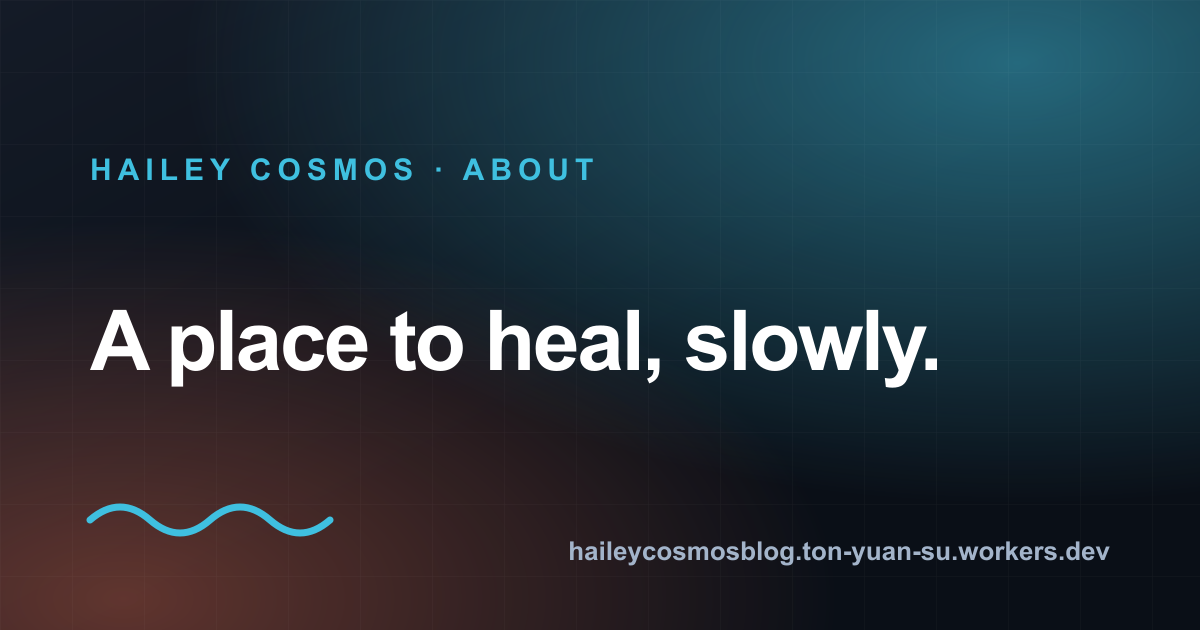
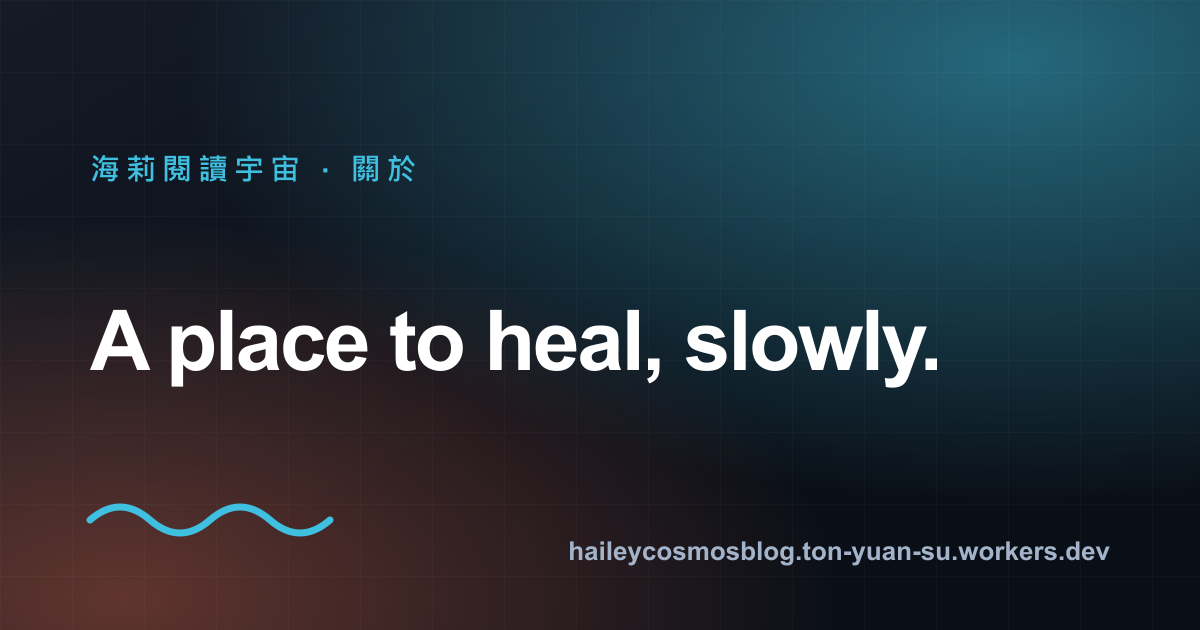
feat: 網站名稱改為海莉閱讀宇宙並優化 SEO

Changed region(s): [[0.0617, 0.2413, 0.3392, 0.3016], [0.37, 0.2413, 0.4933, 0.3016]]

diff --git a/src/i18n/ui/zh/pages.ts b/src/i18n/ui/zh/pages.ts
@@ -12,12 +12,14 @@
 export const zhPages = {
   // --- Accueil -------------------------------------------------------------
   home: {
-    metaTitle: "Hailey Cosmos，迴圈外的海莉",
+    // Contient le nom du site (siteData.name) : BaseHead n'ajoute donc pas
+    // le suffixe " | nom", le titre reste tel quel dans les resultats.
+    metaTitle: "海莉閱讀宇宙 Hailey Cosmos｜閱讀筆記與生活隨想",
     metaDescription:
       "一個離開日復一日的迴圈後，重新尋找生命意義的地方。閱讀、思考、書寫，記錄我一步步療癒自己、找回生活重量的過程。",
     eyebrow: "Hailey Cosmos",
     /** "\n" force un retour a la ligne dans le titre du hero (Hero.astro le rend en <br>). */
-    heroTitle: "Outside the Loop\n迴圈外的海莉",
+    heroTitle: "Outside the Loop\n海莉閱讀宇宙",
     heroAccent: "Loop",
     heroLede: "寫給自己，寫給被困在生活迴圈裡的靈魂們。閱讀、思考、書寫，記錄我一步步療癒自己、找回生活重量的過程。",
     heroPrimary: "開始閱讀",
@@ -50,9 +52,9 @@ export const zhPages = {
     metaTitle: "關於這裡",
     metaDescription: "一個在迴圈之外，練習慢慢療癒自己、寫下生活與思考的地方。",
     eyebrow: "關於",
-    title: "一個練習慢慢療癒自己的人",
-    accent: "慢慢療癒",
-    lede: "我是海莉，我曾活在日復一日的迴圈裡，說不出哪裡不對勁，卻感覺不到一絲意義。這裡記下我一路尋找答案、慢慢把自己接回來的過程，現在也仍在路上，如果你也在同樣的路上，希望我們能在這裡相遇。",
+    title: "你好，我是迴圈外的海莉",
+    accent: "迴圈外的海莉",
+    lede: "我曾活在日復一日的迴圈裡，說不出哪裡不對勁，卻感覺不到一絲意義。這裡記下我一路尋找答案、慢慢把自己接回來的過程，現在也仍在路上，如果你也在同樣的路上，希望我們能在這裡相遇。",
     storyTitle: "這個空間是怎麼開始的",
     storyAccent: "開始的",
     storyParagraphs: [
@@ -104,7 +106,7 @@ export const zhPages = {
     error: "傳送失敗。請直接寄信給我們，我們會在那邊收到。",
     directTitle: "或是跳過表單",
     directLede: "直接寄一封普通的電子郵件效果一樣好，而且一串信件串比表單更容易追蹤。",
-    directCta: "寄信給工作室",
+    directCta: "寄信給我",
     nextTitle: "接下來會發生什麼",
     nextSteps: [
       "兩個工作天內，我們其中一人會先簡短回覆。",
@@ -118,7 +120,7 @@ export const zhPages = {
     metaTitle: "主題",
     metaDescription: "Hailey Cosmos 涵蓋的所有主題：閱讀、思考、書寫，以及在生活裡慢慢尋找意義的各種面向。",
     eyebrow: "主題",
-    title: "我們持續書寫的五個主題",
+    title: "我持續書寫的主題",
     accent: "主題",
     lede: "每篇文章只歸屬一個主題。挑一條主線讀完整段，如果想照順序理解脈絡，從最舊的開始讀。",
     /** {count} vient du nombre d'articles publies dans le sujet. */

diff --git a/src/pages/llms.txt.ts b/src/pages/llms.txt.ts
@@ -15,25 +15,33 @@ export const GET: APIRoute = async ({ site, url }) => {
   const base = site ?? url;
   const absolute = (path: string): string => new URL(path, base).href;
 
+  // Ce site n'a qu'une langue : la phrase "published in N languages" du theme
+  // d'origine ne garde son sens que s'il en a plusieurs.
+  const languages =
+    locales.length === 1
+      ? `This site is written in ${localeMeta[locales[0]].label} (Traditional Chinese).`
+      : `This site is published in ${locales.length} languages: ` +
+        locales
+          .map((locale) => `${localeMeta[locale].label} (${absolute(localizePath("/", locale))})`)
+          .join(", ") +
+        ". Every page listed below exists in each of them.";
+
   const lines = [
-    `# ${siteData.name}`,
+    `# ${siteData.name} (${siteData.alternateName})`,
     "",
     `> ${siteData.description}`,
     "",
-    `This site is published in ${locales.length} languages: ` +
-      locales
-        .map((locale) => `${localeMeta[locale].label} (${absolute(localizePath("/", locale))})`)
-        .join(", ") +
-      ". Every page listed below exists in each of them.",
+    languages,
     "",
   ];
 
+  // Seulement les pages que ce site construit vraiment : pas de page auteurs,
+  // un lien mort ici enverrait un agent sur une 404.
   const core: [string, string][] = [
-    ["/", "the editorial home: featured post, latest notes, topics and writers"],
+    ["/", "the home page: the featured post, the latest notes and the topics"],
     ["/blog/", "every published post, newest first, paginated nine to a page"],
     ["/topics/", "the topic index; each topic has its own paginated archive"],
-    ["/authors/", "the people who write here, one page per byline"],
-    ["/about/", "how the studio works and why the notes are published"],
+    ["/about/", "who writes here (Hailey) and why this blog exists"],
   ];
 
   for (const locale of locales) {

diff --git a/src/i18n/ui/zh/reading.ts b/src/i18n/ui/zh/reading.ts
@@ -49,8 +49,8 @@ export const zhReading = {
     metaTitle: "所有文章",
     metaDescription: "Hailey Cosmos 發表過的所有文章，由新到舊：閱讀筆記、生活思考，以及一步步找回生命意義的紀錄。",
     eyebrow: "文章庫",
-    title: "我們寫過的所有東西",
-    accent: "所有東西",
+    title: "記錄所有寫的文章",
+    accent: "文章",
     lede: "完整的文章庫，由新到舊排列。當你還不確定要找什麼的時候，滑三十秒比打字搜尋更快。",
     /** Suffixe de titre des pages 2 et suivantes. */
     pageSuffix: "第 {n} 頁",
@@ -72,13 +72,13 @@ export const zhReading = {
   // /api/subscribe (worker/index.js) vers Buttondown ; les messages de resultat
   // sont affiches par src/components/Sections/Global/_newsletter.ts.
   newsletter: {
-    title: "一個月一封信",
-    accent: "一個月",
-    lede: "簡短整理我們發表過的內容，還有我們搞砸的地方。沒有追蹤像素，沒有連續信件轟炸，一鍵就能永久退訂。",
+    title: "雙週一封信",
+    accent: "雙週",
+    lede: "簡短整理近期發表內容。沒有連續信件轟炸，訂閱後隨時可退訂。",
     emailLabel: "你的電子郵件",
     placeholder: "you@example.com",
     submit: "訂閱",
-    note: "一個月一封信。隨時可以取消訂閱。",
+    note: "每雙週一封信。隨時可以取消訂閱。",
     /** Texte du bouton pendant l'envoi. */
     sending: "送出中…",
     success: "快完成了。請點擊我們剛剛寄出的確認信。",

diff --git a/src/js/schema.ts b/src/js/schema.ts
@@ -21,6 +21,8 @@ function isoDate(value: Date | string): string {
 
 export interface OrganizationInput {
   name: string;
+  /** Autre nom sous lequel le site est connu (ex. son nom latin). */
+  alternateName?: string;
   url: string;
   logo?: string;
   sameAs?: string[];
@@ -32,6 +34,7 @@ export function organization(input: OrganizationInput): JsonLdNode {
     "@context": CONTEXT,
     "@type": "Organization",
     name: input.name,
+    alternateName: input.alternateName,
     url: input.url,
     logo: input.logo,
     sameAs: input.sameAs,
@@ -40,6 +43,8 @@ export function organization(input: OrganizationInput): JsonLdNode {
 
 export interface WebsiteInput {
   name: string;
+  /** Autre nom du site : Google le lit pour choisir le nom affiche dans les resultats. */
+  alternateName?: string;
   url: string;
   description?: string;
 }
@@ -50,6 +55,7 @@ export function website(input: WebsiteInput): JsonLdNode {
     "@context": CONTEXT,
     "@type": "WebSite",
     name: input.name,
+    alternateName: input.alternateName,
     url: input.url,
     description: input.description,
   });

diff --git a/src/config/siteData.json.ts b/src/config/siteData.json.ts
@@ -4,7 +4,12 @@ import type { SiteDataProps } from "./types/configDataTypes";
 // Tout ce qui identifie la publication vit ici. C'est le premier fichier que
 // l'utilisateur edite, et le seul a editer pour changer de marque.
 const siteData: SiteDataProps = {
-  name: "Hailey",
+  // name : le nom officiel, pour le referencement (titres "Page | name",
+  // og:site_name, donnees structurees). alternateName : le nom latin, affiche
+  // comme marque dans la barre et le pied de page, et declare aux moteurs comme
+  // autre nom du meme site.
+  name: "海莉閱讀宇宙",
+  alternateName: "Hailey Cosmos",
   description:
     "一個離開日復一日的迴圈後，重新尋找生命意義的地方。閱讀、思考、書寫，記錄我一步步療癒自己、找回生活重量的過程。",
   useViewTransitions: true,
@@ -24,7 +29,7 @@ const siteData: SiteDataProps = {
 
   defaultImage: {
     src: "/og/default.png",
-    alt: "Hailey Cosmos: Outside the loop, one page at a time.",
+    alt: "海莉閱讀宇宙 Hailey Cosmos: Outside the loop, one page at a time.",
   },
 };
 

diff --git a/src/i18n/ui/zh/chrome.ts b/src/i18n/ui/zh/chrome.ts
@@ -19,7 +19,7 @@ export const zhChrome = {
     contact: "聯絡",
     search: "搜尋",
     /** Libelle accessible du lien qui ramene le titre du blog a l'accueil. */
-    brandHome: "Hailey，回到首頁",
+    brandHome: "Hailey Cosmos，回到首頁",
     /** Les deux <nav> de la page portent un nom : sans lui, un lecteur d'ecran
      *  annonce "navigation" deux fois et ne dit pas laquelle des deux. */
     mainLabel: "主要導覽",
@@ -41,7 +41,7 @@ export const zhChrome = {
     sitemap: "網站地圖",
     backToTop: "回到頂端",
     /** Libelle accessible du lien qui ne porte qu'une icone. */
-    emailStudio: "寄信給工作室",
+    emailStudio: "寄信給我",
     followOn: "在 {network} 上追蹤 {name}",
   },
 

diff --git a/src/js/schema.selfcheck.ts b/src/js/schema.selfcheck.ts
@@ -50,6 +50,16 @@ is(
   },
   "website carries name, url and description",
 );
+is(
+  website({ name: "Example Studio", alternateName: "Exemple", url: "https://example.com/" }).alternateName,
+  "Exemple",
+  "website carries its alternate name",
+);
+is(
+  organization({ name: "Example Studio", alternateName: "Exemple", url: "https://example.com/" }).alternateName,
+  "Exemple",
+  "organization carries its alternate name",
+);
 
 // article : dates normalisees, noeuds imbriques sans @context.
 const post = article({

diff --git a/src/config/types/configDataTypes.ts b/src/config/types/configDataTypes.ts
@@ -1,7 +1,10 @@
 // src/config/types/configDataTypes.ts - types partages par tous les fichiers de config de src/config.
 
 export interface SiteDataProps {
+  /** Nom officiel du site : titres de page, og:site_name, donnees structurees. */
   name: string;
+  /** Autre nom du site : marque affichee dans la barre et le pied de page, et alternateName des donnees structurees. */
+  alternateName: string;
   description: string;
   useViewTransitions?: boolean;
   author: {

diff --git a/Release_Note.md b/Release_Note.md
@@ -28,6 +28,7 @@
 - **待完成**：Buttondown 帳號審核中，確認信暫停寄送，審核通過後再做完整實測
 - **照片全部進版控，不再依賴 Pexels**：建置時不再從 Pexels 下載照片，網站用到的照片都 commit 在 repo 裡；你自己的封面圖也會被 commit，修正了「有自己封面圖的文章會部署失敗」的問題
 - **About 頁隱藏手機截圖**：右欄留白，排版不變
+- **網站名稱與 SEO**：網站名稱改為「海莉閱讀宇宙」，英文別名「Hailey Cosmos」；導覽列與頁尾顯示「Hailey Cosmos」；首頁標題、結構化資料、`llms.txt`、分享卡片同步更新
 
 ---
 
@@ -106,6 +107,19 @@
 
 - `about.astro`：註解掉 `<PhoneShot />` 和它的 import，保留兩欄排版、右欄留白，分隔線長度不變
 - 元件、截圖檔 `public/reef-iphone-poster.webp`、`pnpm poster` 指令都保留；之後要恢復或刪除，記在交接文件的「未來優化構想」
+
+### 10. 網站名稱與 SEO
+
+| 項目 | 結果 |
+|---|---|
+| 網站名稱（`siteData.name`） | 「Hailey」改為「海莉閱讀宇宙」：用於每頁標題後綴（例如「所有文章 \| 海莉閱讀宇宙」）、`og:site_name`、結構化資料 |
+| 英文別名（新增 `siteData.alternateName`） | 「Hailey Cosmos」：導覽列、手機選單、頁尾的品牌文字；結構化資料的 `alternateName` |
+| 首頁標題 | 海莉閱讀宇宙 Hailey Cosmos｜閱讀筆記與生活隨想 |
+| 結構化資料 | `schema.ts` 的 WebSite、Organization 支援 `alternateName`，自我檢查補 2 項 |
+| `llms.txt` | 標題改為「海莉閱讀宇宙 (Hailey Cosmos)」；刪除不存在的 `/authors/`；首頁、關於頁描述改成符合現況；語言說明改為單一語言 |
+| 分享卡片 | 小標改為「海莉閱讀宇宙」，並重新產生 `public/og/*.png`；`blog` 卡片標語的 em dash 改為逗號 |
+
+作者名稱維持「Hailey」，沒有變動。
 
 ---
 
